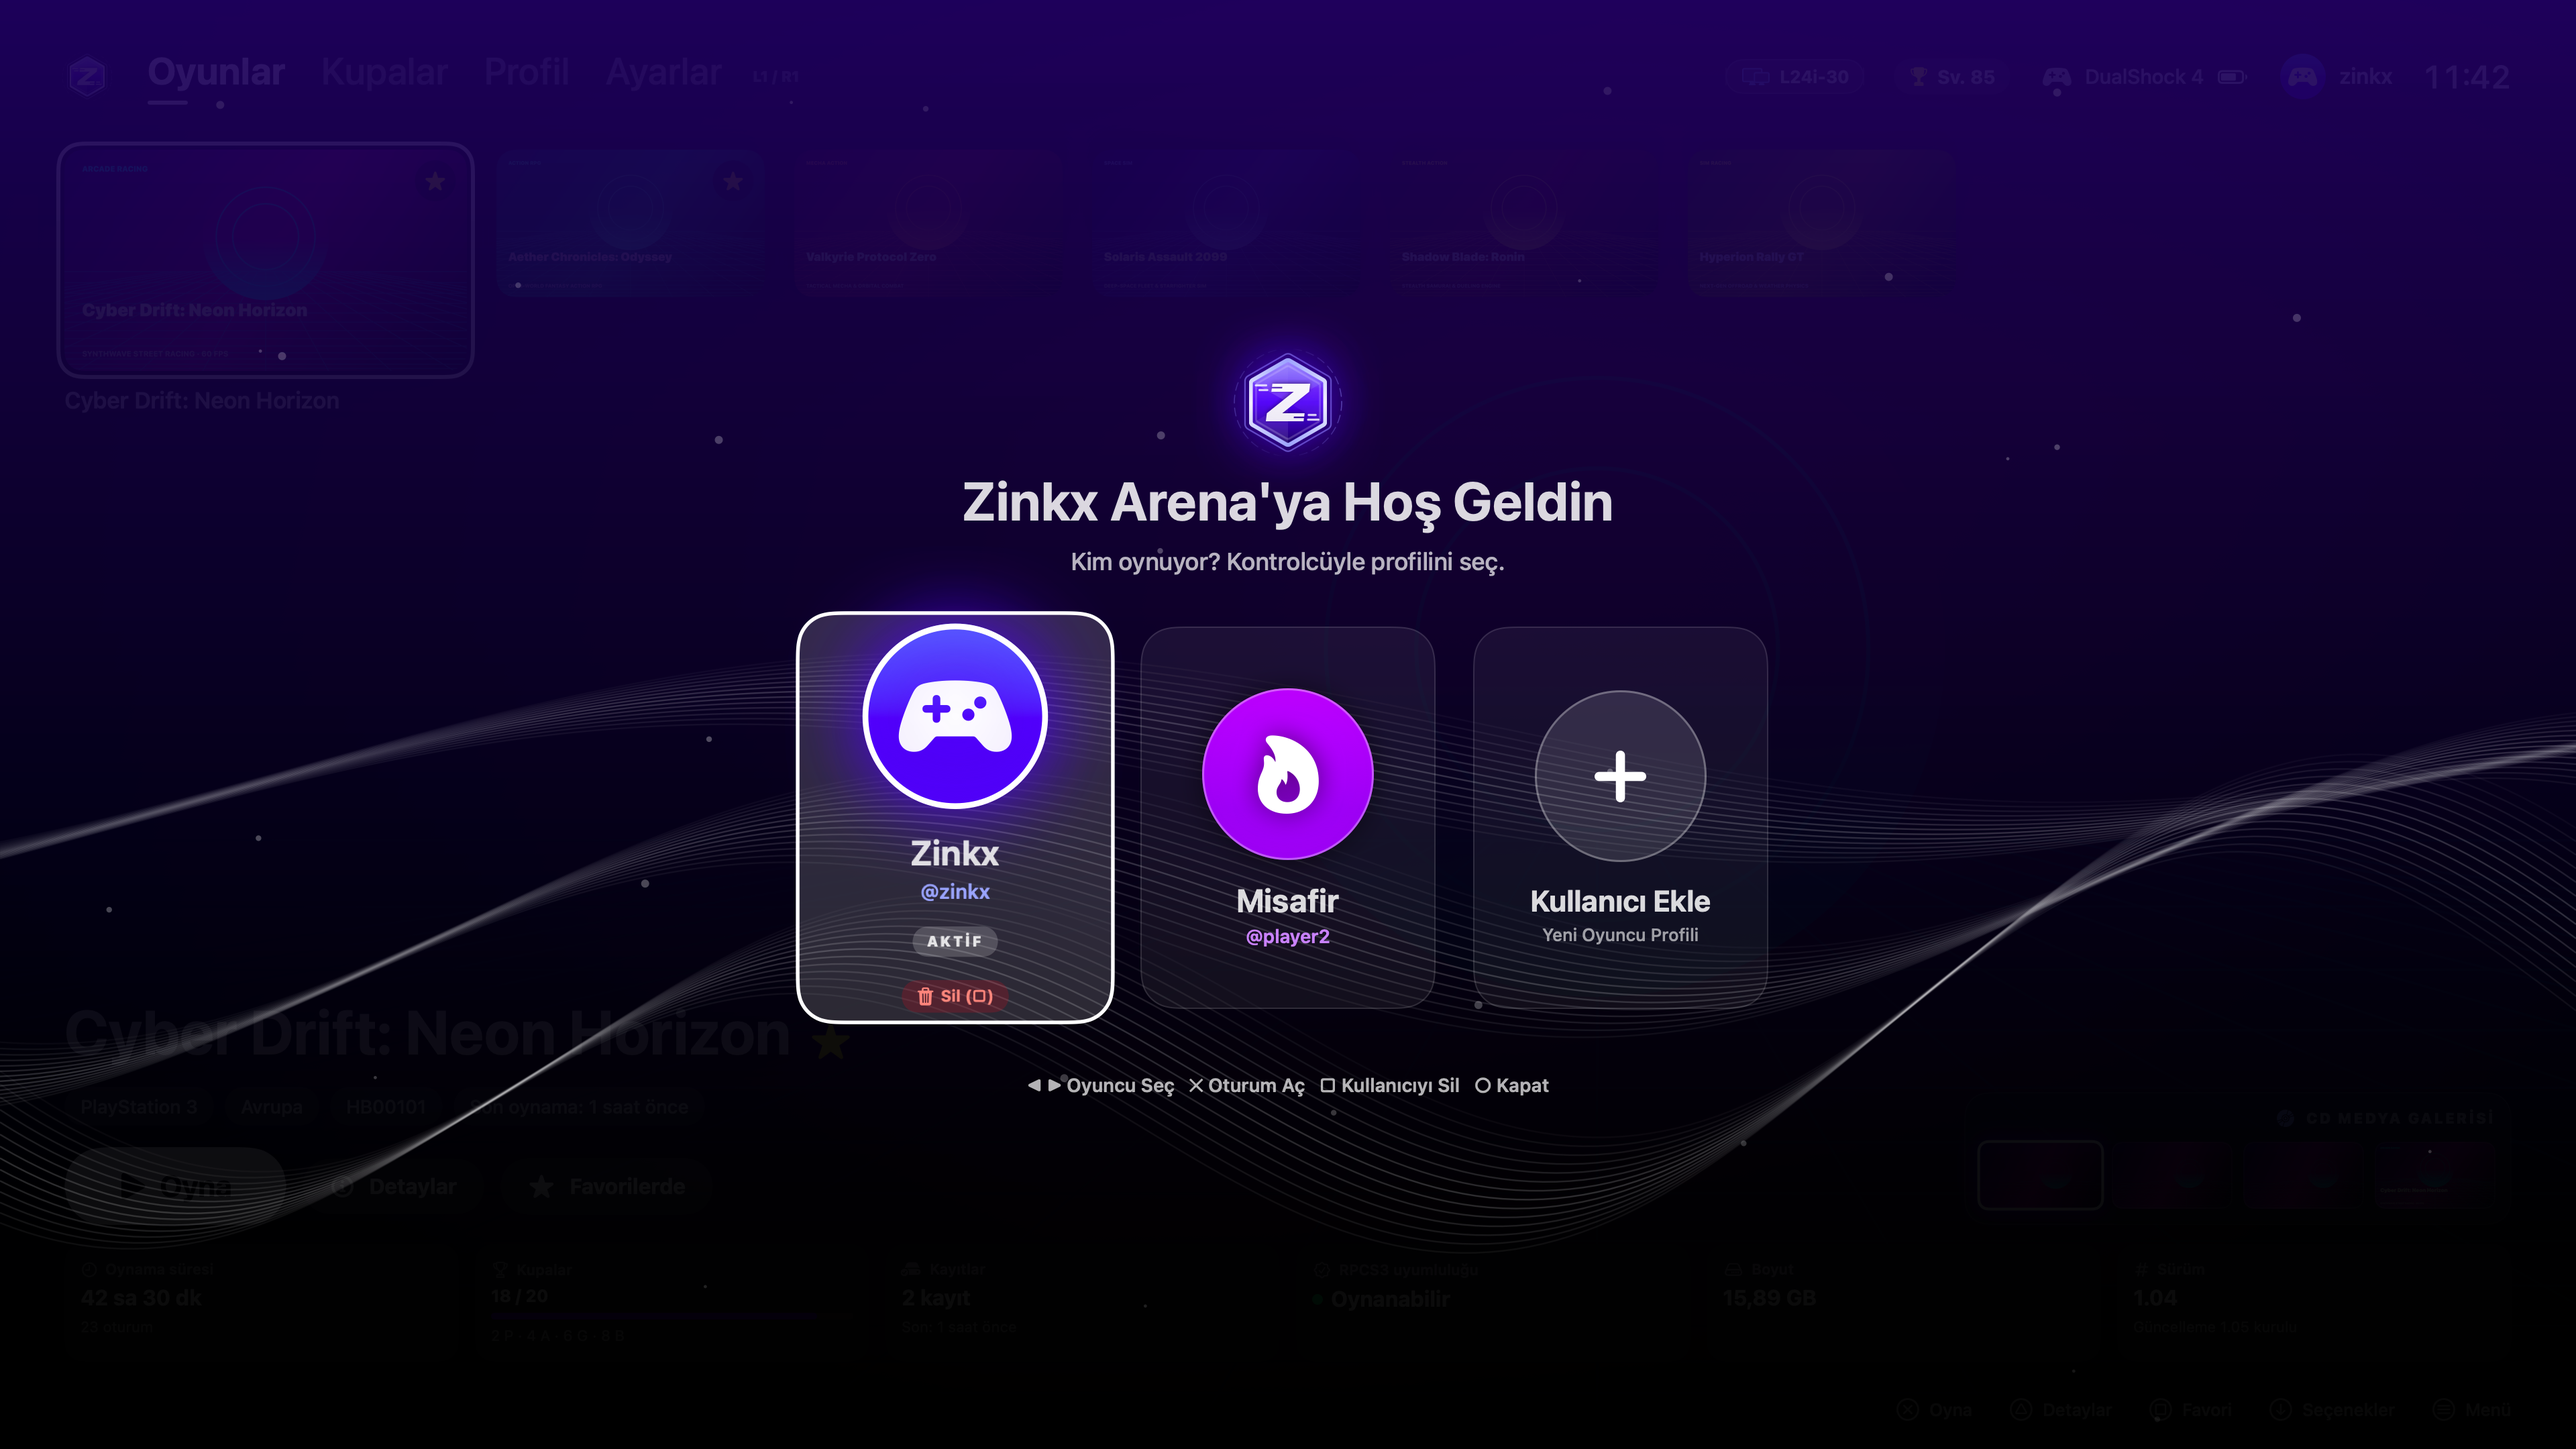
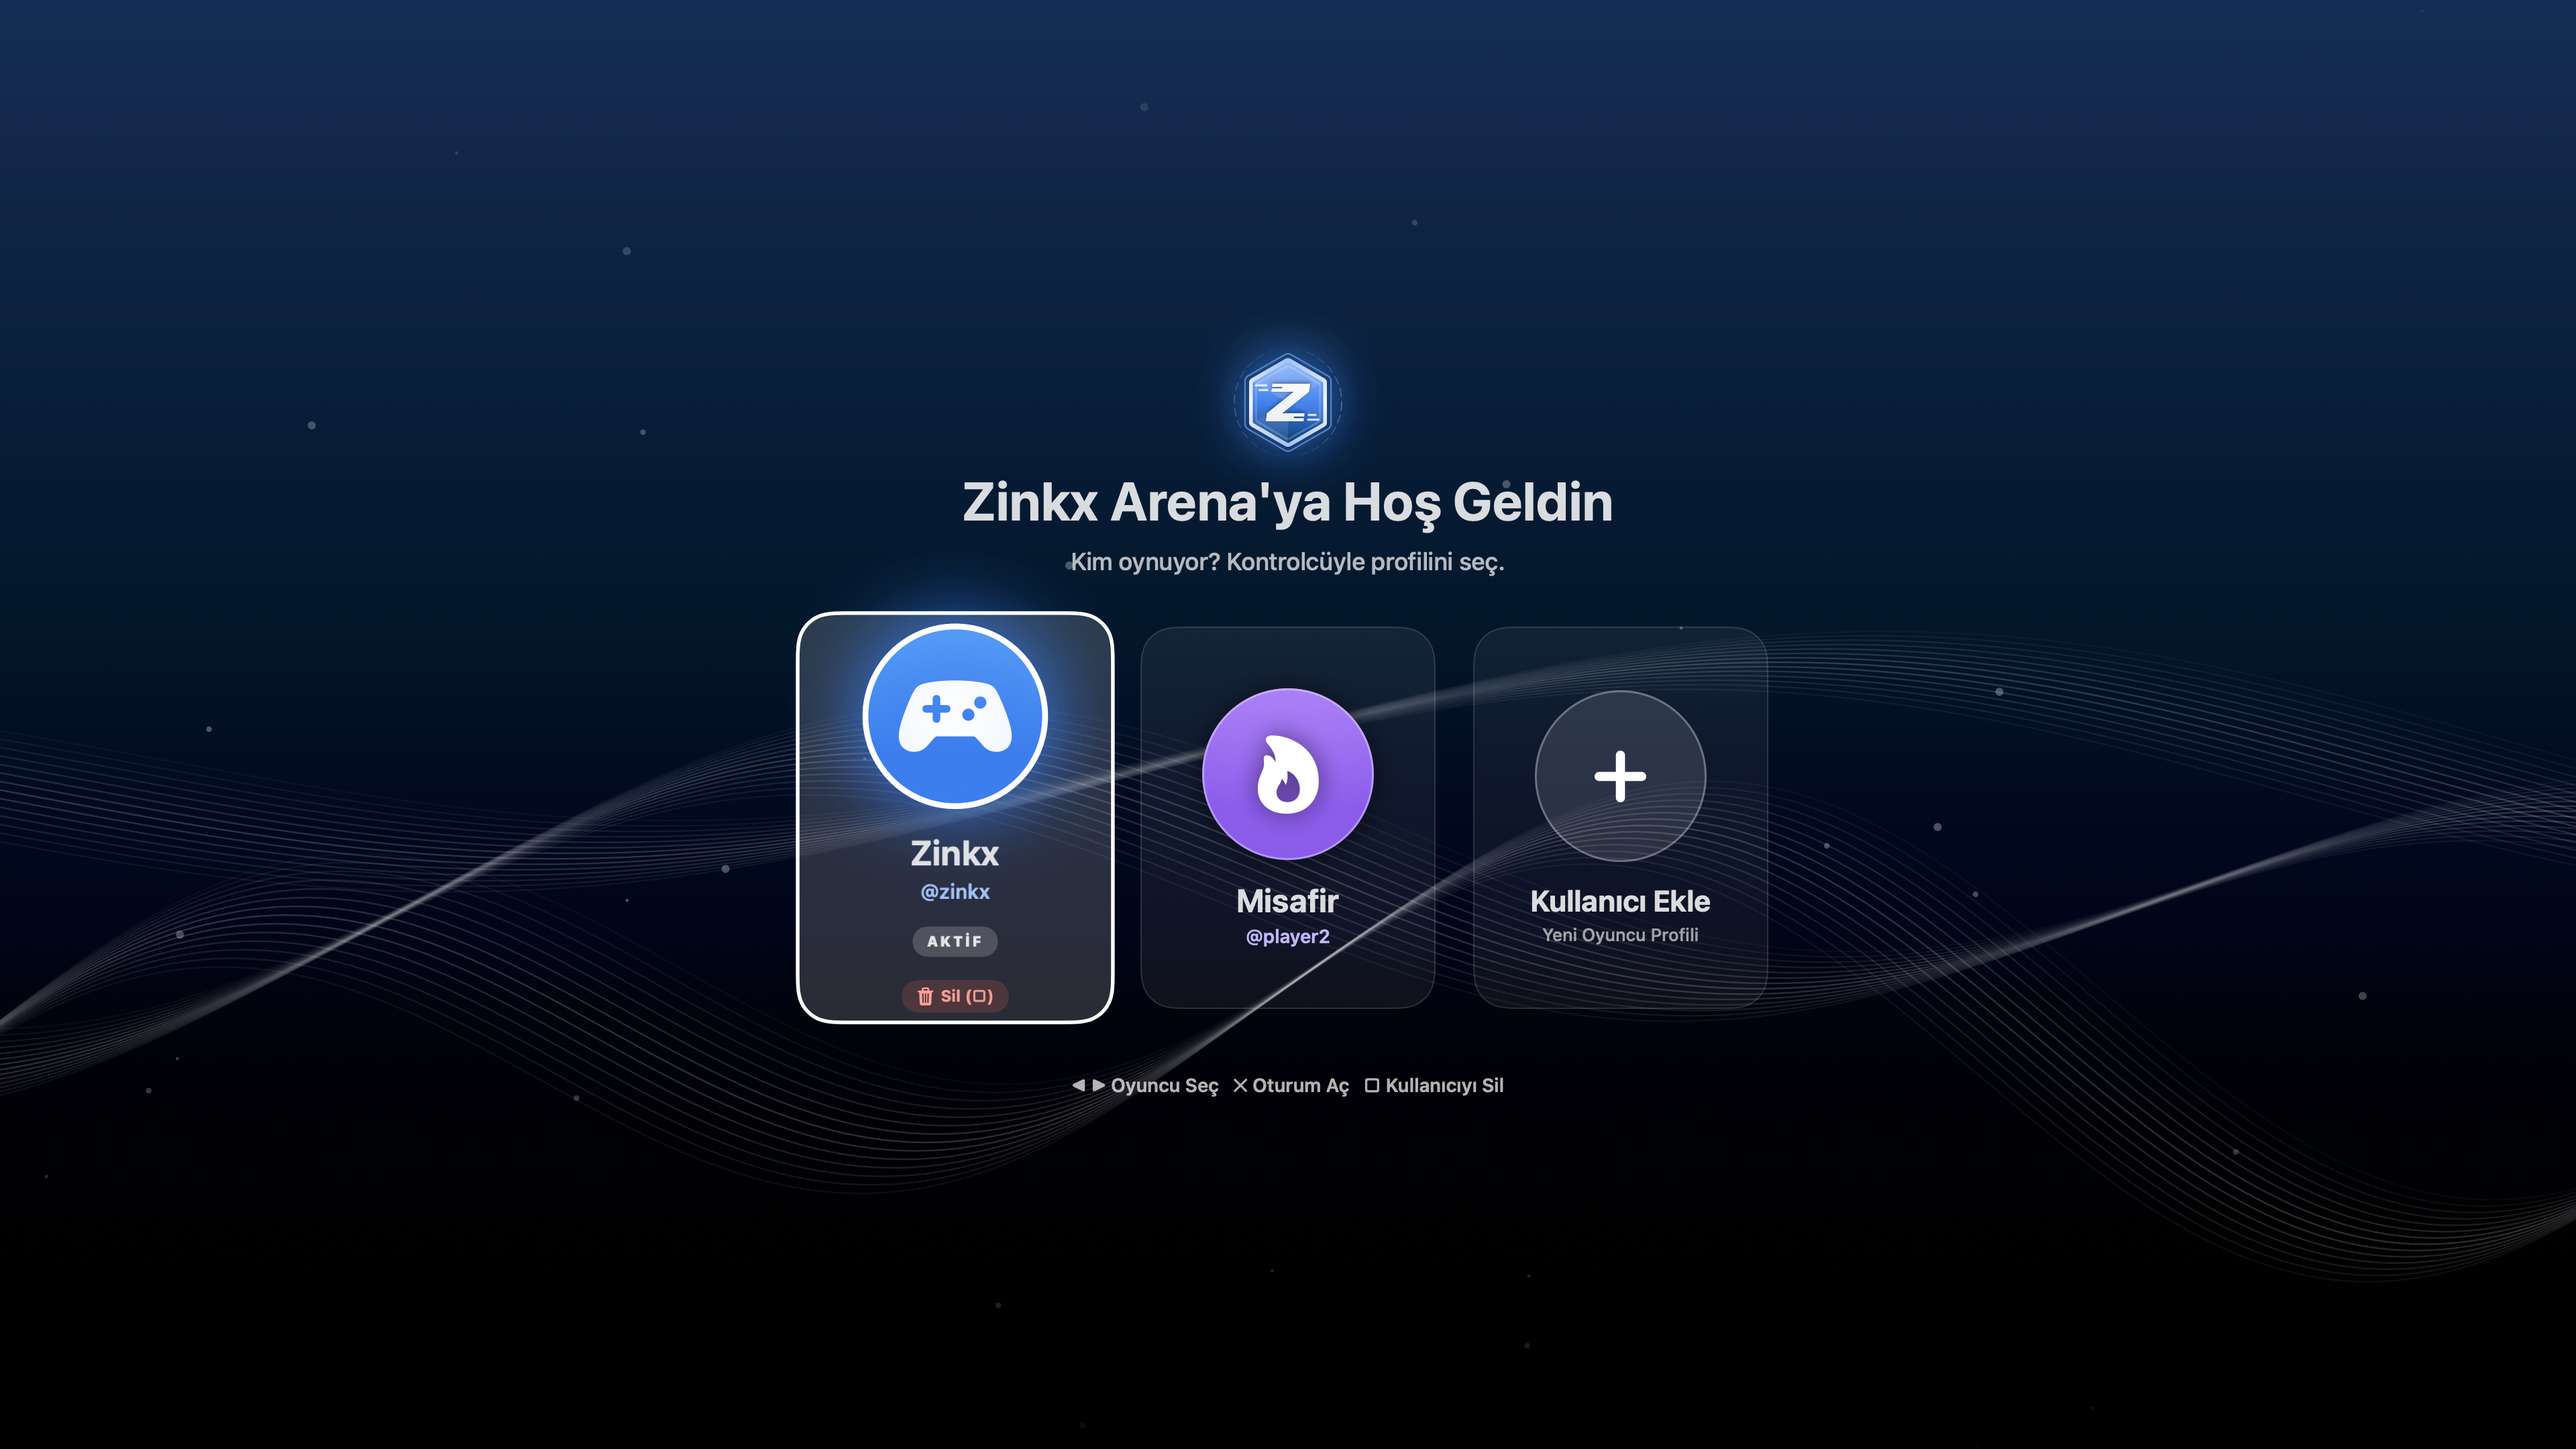
Document 2.1 in the README with new screenshots (#6)
- Add a "What's new in 2.1" card section (TR + EN) and a languages badge.
- Add screenshots of the new-player wizard and of the home screen in four
  languages, and refresh the user-picker screenshot for the opaque,
  mandatory startup picker.
- Update the feature lists and the architecture table, covering L10n.swift,
  NewUserWizard.swift, the .lproj files and l10n_check.py.
- --export-screenshots now renders 07-new-player.png and 08-languages.png,
  so the images can be regenerated.

diff --git a/Sources/PlayHub/DemoShowcase.swift b/Sources/PlayHub/DemoShowcase.swift
@@ -421,6 +421,68 @@ enum DemoShowcase {
             library: library, details: details, settings: settings, input: input, launcher: launcher
         )
         renderSwiftUIView(loginScreen, size: CGSize(width: 1920, height: 1080), to: outDir.appendingPathComponent("06-user-login.png"))
+
+        // 7. New-player sign-up wizard, review step (1920x1080)
+        let editor = ProfileEditorController()
+        editor.loadForNewUser(from: settings)
+        editor.displayName = "Nova"
+        editor.gamertag = "nova"
+        editor.avatar = .bolt
+        editor.accentChoice = .purple
+        editor.genre = LKey("Yarış")
+        editor.wizardStep = .review
+        let wizard = NewUserWizardView(editor: editor, onClose: {})
+            .environmentObject(settings)
+            .preferredColorScheme(.dark)
+        renderSwiftUIView(wizard, size: CGSize(width: 1920, height: 1080), to: outDir.appendingPathComponent("07-new-player.png"))
+
+        // 8. The home screen in four UI languages as a labeled 2×2 collage (1920x1080)
+        let originalLanguage = settings.language
+        var tiles: [(NSImage, String)] = []
+        for lang in [AppLanguage.tr, .en, .de, .ja] {
+            settings.language = lang
+            let tmp = FileManager.default.temporaryDirectory.appendingPathComponent("zinkx-lang-\(lang.rawValue).png")
+            let home = makeHostedHome(
+                HomeView(initialTab: .games, initialSelectedID: firstGame?.id, initialShowingUserSelect: false, initialIntroVisible: false),
+                library: library, details: details, settings: settings, input: input, launcher: launcher
+            )
+            renderSwiftUIView(home, size: CGSize(width: 1920, height: 1080), to: tmp)
+            if let img = NSImage(contentsOf: tmp) { tiles.append((img, lang.title)) }
+            try? FileManager.default.removeItem(at: tmp)
+        }
+        settings.language = originalLanguage
+        savePNG(languageCollage(tiles), to: outDir.appendingPathComponent("08-languages.png"))
+    }
+
+    private static func languageCollage(_ tiles: [(NSImage, String)]) -> NSImage {
+        let size = NSSize(width: 1920, height: 1080)
+        let gap: CGFloat = 12
+        let tileW = (size.width - gap * 3) / 2, tileH = (size.height - gap * 3) / 2
+        let out = NSImage(size: size)
+        out.lockFocus()
+        NSColor(red: 0.03, green: 0.05, blue: 0.12, alpha: 1).setFill()
+        NSRect(origin: .zero, size: size).fill()
+        for (i, (img, label)) in tiles.prefix(4).enumerated() {
+            let col = CGFloat(i % 2), row = CGFloat(1 - i / 2)
+            let rect = NSRect(x: gap + col * (tileW + gap), y: gap + row * (tileH + gap), width: tileW, height: tileH)
+            NSGraphicsContext.saveGraphicsState()
+            NSBezierPath(roundedRect: rect, xRadius: 14, yRadius: 14).addClip()
+            img.draw(in: rect)
+            NSGraphicsContext.restoreGraphicsState()
+
+            let attrs: [NSAttributedString.Key: Any] = [
+                .font: NSFont.systemFont(ofSize: 26, weight: .bold),
+                .foregroundColor: NSColor.white,
+            ]
+            let text = NSAttributedString(string: label, attributes: attrs)
+            let ts = text.size()
+            let pill = NSRect(x: rect.maxX - ts.width - 44, y: rect.minY + 18, width: ts.width + 28, height: ts.height + 12)
+            NSColor(white: 0, alpha: 0.72).setFill()
+            NSBezierPath(roundedRect: pill, xRadius: pill.height / 2, yRadius: pill.height / 2).fill()
+            text.draw(at: NSPoint(x: pill.minX + 14, y: pill.minY + 6))
+        }
+        out.unlockFocus()
+        return out
     }
 
     @MainActor

diff --git a/CHANGELOG.md b/CHANGELOG.md
@@ -4,6 +4,12 @@ All notable changes to this project are documented here. The format follows [Kee
 
 ## [Unreleased]
 
+### Added
+- `--export-screenshots` also renders the new-player wizard (`07-new-player.png`) and a four-language home-screen collage (`08-languages.png`).
+
+### Changed
+- README: a "What's new in 2.1" section, the new screenshots, and updated feature lists and architecture notes.
+
 ## [2.1.0] - 2026-11-26
 
 ### Added
